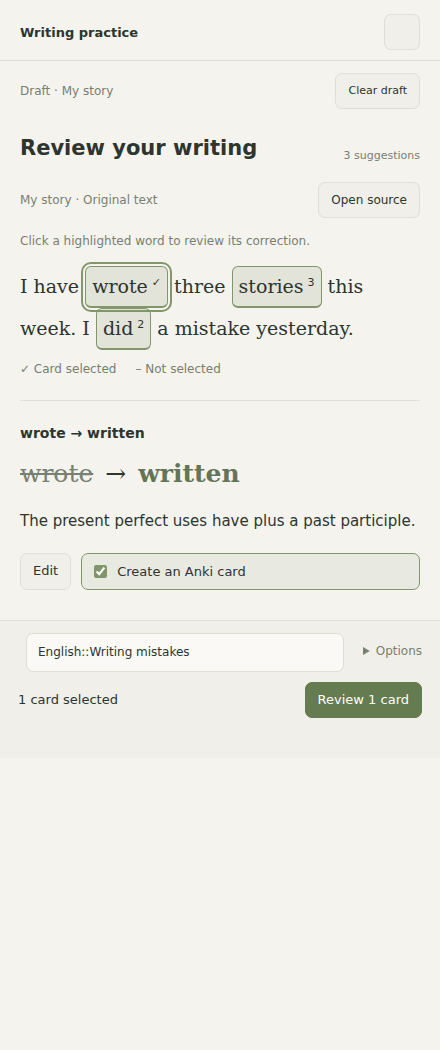
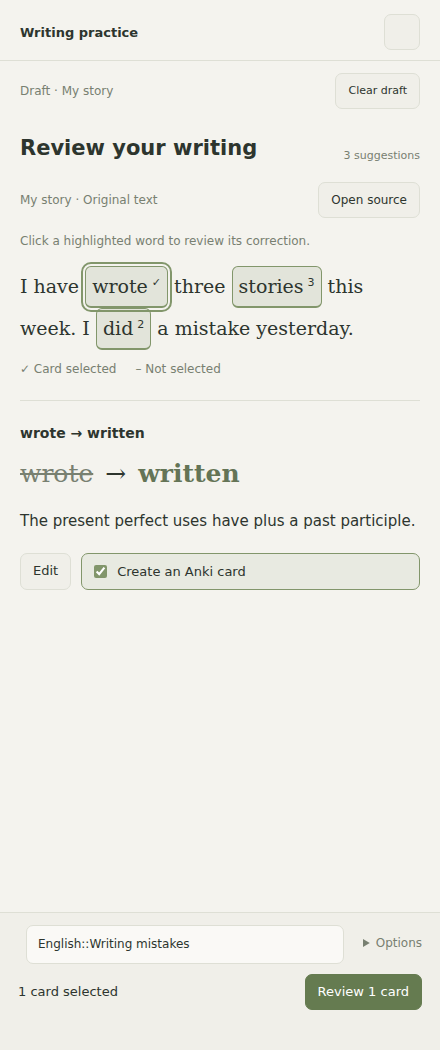
Pin writing actions to the pane bottom with independent content scrolling

diff --git a/src/writing-view.ts b/src/writing-view.ts
@@ -22,45 +22,11 @@ export class WritingView extends ItemView {
   private attempt = 0;
   private renderKey = '';
   private editorValues = new Map<string, string>();
-  private footerObserver?: ResizeObserver;
-  private paddedOwner?: HTMLElement;
-  private previousPadding = '';
-  private releaseFooter() {
-    this.footerObserver?.disconnect();
-    if (this.paddedOwner) {
-      this.paddedOwner.style.scrollPaddingBottom = this.previousPadding;
-      this.paddedOwner = undefined;
-    }
-  }
   async onClose() {
-    this.releaseFooter();
     this.editorValues.clear();
   }
-  private watchFooter(footer: HTMLElement) {
-    const update = () => {
-      if (!footer.isConnected) return;
-      const owner = this.scrollOwner();
-      if (owner !== this.paddedOwner) {
-        if (this.paddedOwner) this.paddedOwner.style.scrollPaddingBottom = this.previousPadding;
-        this.paddedOwner = owner;
-        this.previousPadding = owner.style.scrollPaddingBottom;
-      }
-      owner.style.scrollPaddingBottom =
-        getComputedStyle(footer).position === 'sticky'
-          ? `${footer.getBoundingClientRect().height + 12}px`
-          : this.previousPadding;
-    };
-    this.footerObserver = new ResizeObserver(update);
-    this.footerObserver.observe(footer);
-    update();
-  }
   private scrollOwner(): HTMLElement {
-    let node: HTMLElement | null = this.contentEl;
-    while (node) {
-      if (/auto|scroll/.test(getComputedStyle(node).overflowY)) return node;
-      node = node.parentElement;
-    }
-    return (this.contentEl.ownerDocument.scrollingElement as HTMLElement) ?? this.contentEl;
+    return this.contentEl.querySelector<HTMLElement>('.cc-panel-body') ?? this.contentEl;
   }
   private openEditor(f: WritingFinding) {
     this.editorValues.clear();
@@ -185,7 +151,6 @@ export class WritingView extends ItemView {
     this.render();
   }
   render() {
-    this.releaseFooter();
     const root = this.contentEl,
       owner = this.scrollOwner(),
       scroll = owner.scrollTop;
@@ -303,11 +268,9 @@ export class WritingView extends ItemView {
       } else if (this.screen === 'preview') this.renderPreviews(body, s);
       else this.renderReview(body, s);
       this.renderFooter(root, s);
-      const footer = root.querySelector<HTMLElement>('.cc-footer');
-      if (footer) this.watchFooter(footer);
     }
     const key = `${this.current}/${this.screen}/${this.editing ?? ''}`;
-    owner.scrollTop = this.renderKey === key ? scroll : 0;
+    this.scrollOwner().scrollTop = this.renderKey === key ? scroll : 0;
     if (this.renderKey === key && focusKey) {
       const replacement = Array.from(
         root.querySelectorAll<HTMLInputElement | HTMLTextAreaElement>('[data-writing-field]'),

diff --git a/tests/ui/writing-audit.spec.ts b/tests/ui/writing-audit.spec.ts
@@ -1,4 +1,52 @@
 import { test, expect } from '@playwright/test';
+for (const height of [520, 720, 900]) {
+  test(`writing footer stays at the pane bottom with short and long content at ${height}px`, async ({
+    page,
+  }) => {
+    await page.setViewportSize({ width: 390, height });
+    await page.goto('/?writing=1');
+    // Simulate a pane shorter than the window, as in Obsidian's split layout.
+    await page.locator('#panel').evaluate((el, height) => {
+      (el as HTMLElement).style.height = `${height - 60}px`;
+    }, height);
+    const footer = page.locator('.cc-footer'),
+      body = page.locator('.cc-writing-workflow > .cc-panel-body');
+    const pinned = async () => {
+      const panelRect = (await page.locator('#panel').boundingBox())!,
+        footerRect = (await footer.boundingBox())!;
+      expect(
+        Math.abs(footerRect.y + footerRect.height - panelRect.y - panelRect.height),
+      ).toBeLessThan(1);
+      const bodyRect = (await body.boundingBox())!;
+      expect(bodyRect.y + bodyRect.height).toBeLessThanOrEqual(footerRect.y + 1);
+    };
+    await page.evaluate(() => {
+      const p = (window as any).writingPreview;
+      p.session.findings = [];
+      p.view.render();
+    });
+    await pinned();
+    await page.locator('[data-writing-section=options] > summary').click();
+    await pinned();
+    await page.locator('[data-writing-section=options] > summary').click();
+    await page.evaluate(() => {
+      const p = (window as any).writingPreview;
+      p.session.capture.selected = 'A long passage to review. '.repeat(200);
+      p.view.render();
+    });
+    await pinned();
+    await body.evaluate((el) => (el.scrollTop = el.scrollHeight));
+    expect(await body.evaluate((el) => el.scrollTop)).toBeGreaterThan(0);
+    await pinned();
+    const scroll = await body.evaluate((el) => el.scrollTop);
+    await page.evaluate(() => (window as any).writingPreview.view.render());
+    expect(await body.evaluate((el) => el.scrollTop)).toBe(scroll);
+    await page.locator('[data-writing-section=options] > summary').click();
+    await pinned();
+    if (height === 720)
+      await page.screenshot({ path: '.test-artifacts/writing-footer-pinned.png' });
+  });
+}
 test('background redraw preserves unsaved edits, focus and caret', async ({ page }) => {
   await page.goto('/?writing=1');
   await page.getByRole('button', { name: 'Edit', exact: true }).click();

diff --git a/styles.css b/styles.css
@@ -399,9 +399,25 @@
 }
 .cc-writing-workflow .cc-panel-body {
   padding-top: 22px;
+  flex: 1 1 0;
+  min-height: 0;
+  overflow-y: auto;
 }
 .cc-writing-workflow {
   --cc-answer: color-mix(in srgb, var(--cc-accent) 65%, var(--text-normal));
+  display: flex;
+  flex-direction: column;
+  height: 100%;
+  min-height: 0;
+  overflow: hidden;
+}
+.cc-writing-workflow > .cc-panel-header,
+.cc-writing-workflow > .cc-draft-switcher {
+  flex-shrink: 0;
+}
+.cc-panel.cc-writing-workflow > .cc-footer {
+  position: static;
+  flex-shrink: 0;
 }
 .cc-writing-workflow .cc-busy {
   margin: 0 0 18px;

diff --git a/docs/SETUP.md b/docs/SETUP.md
@@ -227,7 +227,7 @@ Writing practice is a separate mode. Existing vocabulary capture still works wit
 4. Beside **Edit**, the **Create an Anki card** checkbox controls whether this correction is included in the batch. Grammar and vocabulary corrections are checked by default after analysis; optional style, unclear meaning and typos stay unchecked. Uncheck any card you do not want. The label stays the same and the current word stays open. Saved choices are preserved when reopening a review. Exercises are prepared only when you click **Review N cards** below.
 5. Click **Edit** to change a correction. Changes apply only after **Save changes**; **Cancel** discards them. **More details** contains the tip, issue metadata, exercise type and prepared card fields. Changing the underlying correction invalidates its exercise. Typing keeps focus.
 6. Click **Review N cards** to prepare the selected exercises. Review their questions and answers together, then **Add N cards to Anki**. This saves the review and exports the batch. **← Corrections** returns to the original text without losing your choices; uncheck **Create an Anki card** there to exclude a correction. You can review your current selection before deciding on every suggestion.
-7. The writing deck is always editable in the bottom panel, just like the deck in vocabulary mode. **Options**, beside the deck, expands **Recheck selection** within the same panel. The review selector appears at the top only when there is more than one review. When all corrections are excluded, **Finish review** completes the review without exporting cards.
+7. The writing deck is always editable in the bottom panel, just like the deck in vocabulary mode. The panel stays at the bottom of the pane while your text and cards scroll above it. **Options**, beside the deck, expands **Recheck selection** within the same panel. The review selector appears at the top only when there is more than one review. When all corrections are excluded, **Finish review** completes the review without exporting cards.
 
 Optional style, unclear meaning and obvious typos cannot become practice cards. If the meaning is unclear, resolve it yourself before classifying the finding as a definite grammar/vocabulary correction.
 
